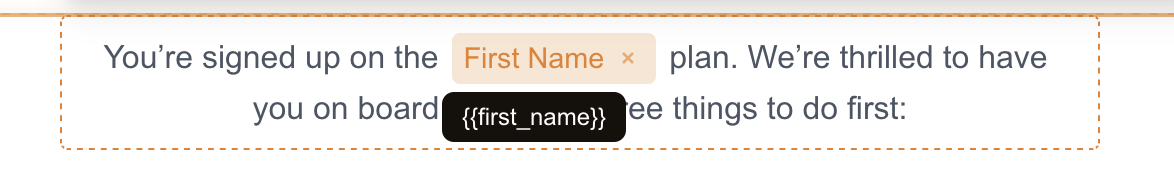
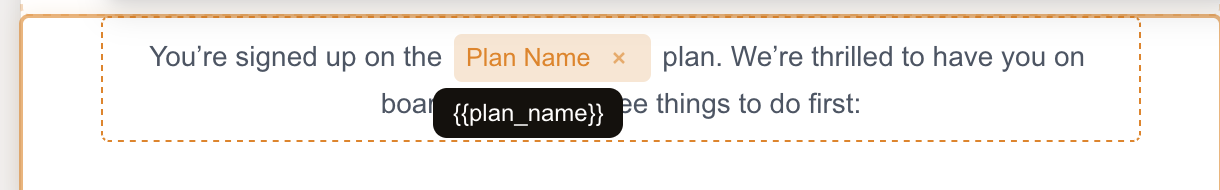
wip

Changed region(s): [[0.0, 0.0263, 1.0, 1.0], [0.9199, 0.3421, 0.9506, 0.3684], [0.9199, 0.2895, 0.9506, 0.3158]]

diff --git a/packages/editor/src/components/MergeTagPickerModal.vue b/packages/editor/src/components/MergeTagPickerModal.vue
@@ -307,11 +307,11 @@ const showPillRow = computed(
       aria-modal="true"
       :aria-labelledby="`${listId}-title`"
       data-testid="merge-tag-picker-modal"
-      class="tpl tpl:flex tpl:max-h-[80vh] tpl:w-[min(480px,92vw)] tpl:flex-col tpl:rounded-[var(--tpl-radius-lg)] tpl:border tpl:border-[var(--tpl-border)] tpl:bg-[var(--tpl-bg-elevated)] tpl:shadow-[var(--tpl-shadow-lg)]"
+      class="tpl tpl:flex tpl:max-h-[80vh] tpl:w-[min(420px,92vw)] tpl:flex-col tpl:rounded-[var(--tpl-radius)] tpl:border tpl:border-[var(--tpl-border)] tpl:bg-[var(--tpl-bg-elevated)] tpl:shadow-[var(--tpl-shadow-lg)]"
     >
       <!-- Header -->
       <header
-        class="tpl:flex tpl:items-center tpl:justify-between tpl:gap-3 tpl:border-b tpl:border-[var(--tpl-border)] tpl:px-4 tpl:py-3"
+        class="tpl:flex tpl:items-center tpl:justify-between tpl:gap-3 tpl:border-b tpl:border-[var(--tpl-border)] tpl:px-3 tpl:py-2.5"
       >
         <h2
           :id="`${listId}-title`"
@@ -321,7 +321,7 @@ const showPillRow = computed(
         </h2>
         <button
           type="button"
-          class="tpl:flex tpl:h-7 tpl:w-7 tpl:cursor-pointer tpl:items-center tpl:justify-center tpl:rounded tpl:border-none tpl:bg-transparent tpl:text-[var(--tpl-text-dim)] tpl:transition-colors tpl:hover:bg-[var(--tpl-bg-hover)] tpl:hover:text-[var(--tpl-text)]"
+          class="tpl:flex tpl:h-7 tpl:w-7 tpl:cursor-pointer tpl:items-center tpl:justify-center tpl:rounded-[var(--tpl-radius-sm)] tpl:border-none tpl:bg-transparent tpl:text-[var(--tpl-text-dim)] tpl:transition-colors tpl:hover:bg-[var(--tpl-bg-hover)] tpl:hover:text-[var(--tpl-text)]"
           :aria-label="t.mergeTag.picker.close"
           data-testid="merge-tag-picker-close"
           @click="cancel"
@@ -332,10 +332,10 @@ const showPillRow = computed(
 
       <!-- Search -->
       <div
-        class="tpl:relative tpl:border-b tpl:border-[var(--tpl-border)] tpl:px-4 tpl:py-3"
+        class="tpl:relative tpl:border-b tpl:border-[var(--tpl-border)] tpl:px-3 tpl:py-2.5"
       >
         <Search
-          class="tpl:pointer-events-none tpl:absolute tpl:top-1/2 tpl:left-7 tpl:-translate-y-1/2 tpl:text-[var(--tpl-text-dim)]"
+          class="tpl:pointer-events-none tpl:absolute tpl:top-1/2 tpl:left-5 tpl:-translate-y-1/2 tpl:text-[var(--tpl-text-dim)]"
           :size="14"
           :stroke-width="2"
         />
@@ -344,7 +344,7 @@ const showPillRow = computed(
           ref="searchInputRef"
           v-model="rawSearch"
           type="text"
-          class="tpl:w-full tpl:rounded tpl:border tpl:border-[var(--tpl-border)] tpl:bg-[var(--tpl-bg)] tpl:py-1.5 tpl:pr-3 tpl:pl-8 tpl:text-sm tpl:text-[var(--tpl-text)] tpl:outline-none tpl:focus:border-[var(--tpl-primary)]"
+          class="tpl:w-full tpl:rounded-[var(--tpl-radius-sm)] tpl:border tpl:border-[var(--tpl-border)] tpl:bg-[var(--tpl-bg)] tpl:py-1.5 tpl:pr-3 tpl:pl-8 tpl:text-sm tpl:text-[var(--tpl-text)] tpl:outline-none tpl:focus:border-[var(--tpl-primary)]"
           :placeholder="t.mergeTag.picker.searchPlaceholder"
           :aria-label="t.mergeTag.picker.searchAriaLabel"
           :aria-controls="listId"
@@ -360,7 +360,7 @@ const showPillRow = computed(
            degrades gracefully. -->
       <div
         v-if="showPillRow"
-        class="tpl:flex tpl:gap-1.5 tpl:overflow-x-auto tpl:border-b tpl:border-[var(--tpl-border)] tpl:px-4 tpl:py-2"
+        class="tpl:flex tpl:gap-1.5 tpl:overflow-x-auto tpl:border-b tpl:border-[var(--tpl-border)] tpl:px-3 tpl:py-2"
         data-testid="merge-tag-picker-group-pills"
       >
         <button
@@ -392,7 +392,7 @@ const showPillRow = computed(
       >
         <template v-if="isEmptyConfig">
           <div
-            class="tpl:px-4 tpl:py-6 tpl:text-center tpl:text-xs tpl:text-[var(--tpl-text-dim)]"
+            class="tpl:px-3 tpl:py-6 tpl:text-center tpl:text-xs tpl:text-[var(--tpl-text-dim)]"
             data-testid="merge-tag-picker-empty"
           >
             {{ t.mergeTag.picker.empty }}
@@ -400,7 +400,7 @@ const showPillRow = computed(
         </template>
         <template v-else-if="isNoResults">
           <div
-            class="tpl:px-4 tpl:py-6 tpl:text-center tpl:text-xs tpl:text-[var(--tpl-text-dim)]"
+            class="tpl:px-3 tpl:py-6 tpl:text-center tpl:text-xs tpl:text-[var(--tpl-text-dim)]"
             data-testid="merge-tag-picker-empty"
           >
             {{ t.mergeTag.picker.noResults }}
@@ -414,7 +414,7 @@ const showPillRow = computed(
               type="button"
               :aria-expanded="!isCollapsed(row.group)"
               :aria-controls="listId"
-              class="tpl:sticky tpl:top-0 tpl:z-10 tpl:flex tpl:w-full tpl:cursor-pointer tpl:items-center tpl:gap-1.5 tpl:border-none tpl:bg-[var(--tpl-bg-elevated)] tpl:px-4 tpl:pt-3 tpl:pb-1 tpl:text-left tpl:text-[10px] tpl:font-semibold tpl:tracking-wider tpl:text-[var(--tpl-text-dim)] tpl:uppercase tpl:transition-colors tpl:hover:bg-[var(--tpl-bg-hover)]"
+              class="tpl:sticky tpl:top-0 tpl:z-10 tpl:flex tpl:w-full tpl:cursor-pointer tpl:items-center tpl:gap-1.5 tpl:border-none tpl:bg-[var(--tpl-bg-elevated)] tpl:px-3 tpl:pt-2.5 tpl:pb-1 tpl:text-left tpl:text-xs tpl:font-medium tpl:text-[var(--tpl-text-dim)] tpl:transition-colors tpl:hover:bg-[var(--tpl-bg-hover)]"
               data-testid="merge-tag-picker-group-header"
               :data-group-name="row.group"
               :data-group-collapsed="isCollapsed(row.group) ? 'true' : 'false'"
@@ -427,7 +427,7 @@ const showPillRow = computed(
                 :class="isCollapsed(row.group) ? 'tpl:-rotate-90' : ''"
               />
               <span>{{ row.group }}</span>
-              <span class="tpl:ml-1 tpl:font-normal tpl:lowercase">
+              <span class="tpl:ml-1 tpl:font-normal">
                 ({{
                   format(t.mergeTag.picker.groupCount, { count: row.count })
                 }})
@@ -447,7 +447,7 @@ const showPillRow = computed(
                   ? `${row.tag.value} — ${row.tag.description}`
                   : row.tag.value
               "
-              class="tpl:flex tpl:w-full tpl:cursor-pointer tpl:flex-col tpl:items-start tpl:gap-0.5 tpl:border-none tpl:px-4 tpl:py-2 tpl:text-left tpl:transition-colors"
+              class="tpl:flex tpl:w-full tpl:cursor-pointer tpl:flex-col tpl:items-start tpl:gap-0.5 tpl:border-none tpl:px-3 tpl:py-1.5 tpl:text-left tpl:transition-colors"
               :class="
                 row.index === highlightedIndex
                   ? 'tpl:bg-[var(--tpl-primary-light)] tpl:text-[var(--tpl-primary)]'
@@ -475,20 +475,6 @@ const showPillRow = computed(
           </template>
         </template>
       </div>
-
-      <!-- Footer -->
-      <footer
-        class="tpl:flex tpl:items-center tpl:justify-end tpl:gap-2 tpl:border-t tpl:border-[var(--tpl-border)] tpl:px-4 tpl:py-3"
-      >
-        <button
-          type="button"
-          class="tpl:flex tpl:cursor-pointer tpl:items-center tpl:justify-center tpl:rounded tpl:border tpl:border-[var(--tpl-border)] tpl:bg-transparent tpl:px-3 tpl:py-1.5 tpl:text-xs tpl:font-medium tpl:text-[var(--tpl-text)] tpl:transition-colors tpl:hover:bg-[var(--tpl-bg-hover)]"
-          data-testid="merge-tag-picker-cancel"
-          @click="cancel"
-        >
-          {{ t.mergeTag.picker.cancel }}
-        </button>
-      </footer>
     </div>
   </TplModal>
 </template>

diff --git a/packages/editor/tests/mergeTagPickerModal.test.ts b/packages/editor/tests/mergeTagPickerModal.test.ts
@@ -476,16 +476,15 @@ describe("MergeTagPickerModal — keyboard navigation", () => {
 });
 
 describe("MergeTagPickerModal — cancel paths", () => {
-  it("Cancel button resolves picker with null and closes", async () => {
-    const { picker, openPromise } = mountPicker(flatTags);
+  it("does not render an explicit Cancel button — Esc/backdrop/× are the dismiss affordances", async () => {
+    // Regression for the design pass that dropped the Cancel footer to
+    // align the picker with the editor's other popups (autocomplete +
+    // link dialog), which all dismiss via Esc / outside-click / × only.
+    mountPicker(flatTags);
     await nextTick();
-    const cancelBtn = popoverRootEl.querySelector<HTMLButtonElement>(
-      '[data-testid="merge-tag-picker-cancel"]',
-    );
-    cancelBtn!.click();
-    expect(await openPromise!).toBeNull();
-    await nextTick();
-    expect(picker.isOpen.value).toBe(false);
+    expect(
+      popoverRootEl.querySelector('[data-testid="merge-tag-picker-cancel"]'),
+    ).toBe(null);
   });
 
   it("Header close (×) button resolves with null and closes", async () => {
@@ -539,8 +538,14 @@ describe("MergeTagPickerModal — i18n", () => {
     expect(popoverRootEl.textContent).toContain(
       enTranslations.mergeTag.picker.title,
     );
-    expect(popoverRootEl.textContent).toContain(
-      enTranslations.mergeTag.picker.cancel,
+    // Close button aria-label exposes the localized close string —
+    // assert against attribute rather than visible text since the X icon
+    // is graphic-only.
+    const closeBtn = popoverRootEl.querySelector<HTMLButtonElement>(
+      '[data-testid="merge-tag-picker-close"]',
+    );
+    expect(closeBtn!.getAttribute("aria-label")).toBe(
+      enTranslations.mergeTag.picker.close,
     );
   });
 

diff --git a/apps/docs/de/guide/merge-tags.md b/apps/docs/de/guide/merge-tags.md
@@ -183,6 +183,8 @@ Die Schaltfläche „Merge-Tag einfügen" in der Symbolleiste funktioniert weite
 
 Wenn Sie `mergeTags.tags` ohne `onRequest`-Callback konfigurieren, öffnet ein Klick auf die Schaltfläche „Merge-Tag einfügen" in der Rich-Text-Symbolleiste (oder neben einem Texteingabefeld in der Seitenleiste) ein integriertes modales Picker-Fenster. Der Picker listet jedes Tag aus `tags` auf, unterstützt Tastaturnavigation und bietet ein Suchfeld, das gegen `label`, `value` und `description` filtert.
 
+![Integrierter Merge-Tag-Picker](/images/merge-tag-picker.png)
+
 Der Picker zeigt:
 
 - das **Label** (fett)
@@ -206,8 +208,16 @@ const editor = await init({
         group: 'Empfänger',
         description: 'Persönliche Anrede',
       },
-      { label: 'Nachname', value: '{{last_name}}', group: 'Empfänger' },
-      { label: 'Unternehmen', value: '{{company.name}}', group: 'Konto' },
+      {
+        label: 'Nachname',
+        value: '{{last_name}}',
+        group: 'Empfänger'
+      },
+      {
+        label: 'Unternehmen',
+        value: '{{company.name}}',
+        group: 'Konto'
+      },
       {
         label: 'Abmelde-URL',
         value: '{{unsubscribe_url}}',
@@ -217,8 +227,6 @@ const editor = await init({
   },
 });
 ```
-
-Das Picker-Bundle wird verzögert (lazy) geladen — die meisten Editor-Sitzungen öffnen es nie, sodass die Kosten erst beim ersten Klick anfallen. Danach ist das Chunk für den Rest der Sitzung zwischengespeichert.
 
 ## Dynamisches Tag-Laden
 

diff --git a/apps/docs/guide/merge-tags.md b/apps/docs/guide/merge-tags.md
@@ -183,6 +183,8 @@ The toolbar's "Insert merge tag" button continues to work regardless of the auto
 
 When you configure `mergeTags.tags` without an `onRequest` callback, clicking the "Insert merge tag" button in the rich text toolbar (or next to a sidebar text input) opens a built-in modal picker. The picker lists every tag from `tags`, supports keyboard navigation, and offers a search field that matches against `label`, `value`, and `description`.
 
+![Built-in merge tag picker](/images/merge-tag-picker.png)
+
 The picker shows:
 
 - the **label** (bold)
@@ -206,8 +208,16 @@ const editor = await init({
         group: 'Recipient',
         description: 'Personalized greeting',
       },
-      { label: 'Last Name', value: '{{last_name}}', group: 'Recipient' },
-      { label: 'Company', value: '{{company.name}}', group: 'Account' },
+      {
+        label: 'Last Name',
+        value: '{{last_name}}',
+        group: 'Recipient'
+      },
+      {
+        label: 'Company',
+        value: '{{company.name}}',
+        group: 'Account'
+      },
       {
         label: 'Unsubscribe URL',
         value: '{{unsubscribe_url}}',
@@ -217,8 +227,6 @@ const editor = await init({
   },
 });
 ```
-
-The picker bundle is lazy-loaded — most editor sessions never open it, so the cost is paid only on the first click. After that, the chunk is cached for the rest of the session.
 
 ## Dynamic tag loading
 

diff --git a/apps/docs/de/guide/custom-blocks.md b/apps/docs/de/guide/custom-blocks.md
@@ -82,8 +82,8 @@ const editor = await init({
 ![Übersicht benutzerdefinierter Blöcke](/images/custom-blocks-overview.png)
 
 1. **Block-Palette** — Der `name` und das `icon` erscheinen hier. Benutzer ziehen den Block aus der Palette in ihr Template.
-2. **Editor-Canvas** — Das Liquid-`template` wird genau wie definiert gerendert, wobei die Feldwerte aus dem Einstellungsbereich übernommen werden.
-3. **Einstellungsbereich** — Jeder Eintrag in `fields` wird zu einem Formularelement, mit dem Benutzer den Inhalt des Blocks bearbeiten können.
+2. **Einstellungsbereich** — Jeder Eintrag in `fields` wird zu einem Formularelement, mit dem Benutzer den Inhalt des Blocks bearbeiten können.
+3. **Editor-Canvas** — Das Liquid-`template` wird genau wie definiert gerendert, wobei die Feldwerte aus dem Einstellungsbereich übernommen werden.
 
 ## CustomBlockDefinition
 

diff --git a/apps/docs/guide/custom-blocks.md b/apps/docs/guide/custom-blocks.md
@@ -82,8 +82,8 @@ const editor = await init({
 ![Custom blocks overview](/images/custom-blocks-overview.png)
 
 1. **Block palette** — The `name` and `icon` appear here. Users drag the block from the palette into their template.
-2. **Editor canvas** — The Liquid `template` renders exactly as defined, with field values populated from the settings panel.
-3. **Settings panel** — Each entry in `fields` becomes a form control where users can edit the block's content.
+2. **Settings panel** — Each entry in `fields` becomes a form control where users can edit the block's content.
+3. **Editor canvas** — The Liquid `template` renders exactly as defined, with field values populated from the settings panel.
 
 ## CustomBlockDefinition
 